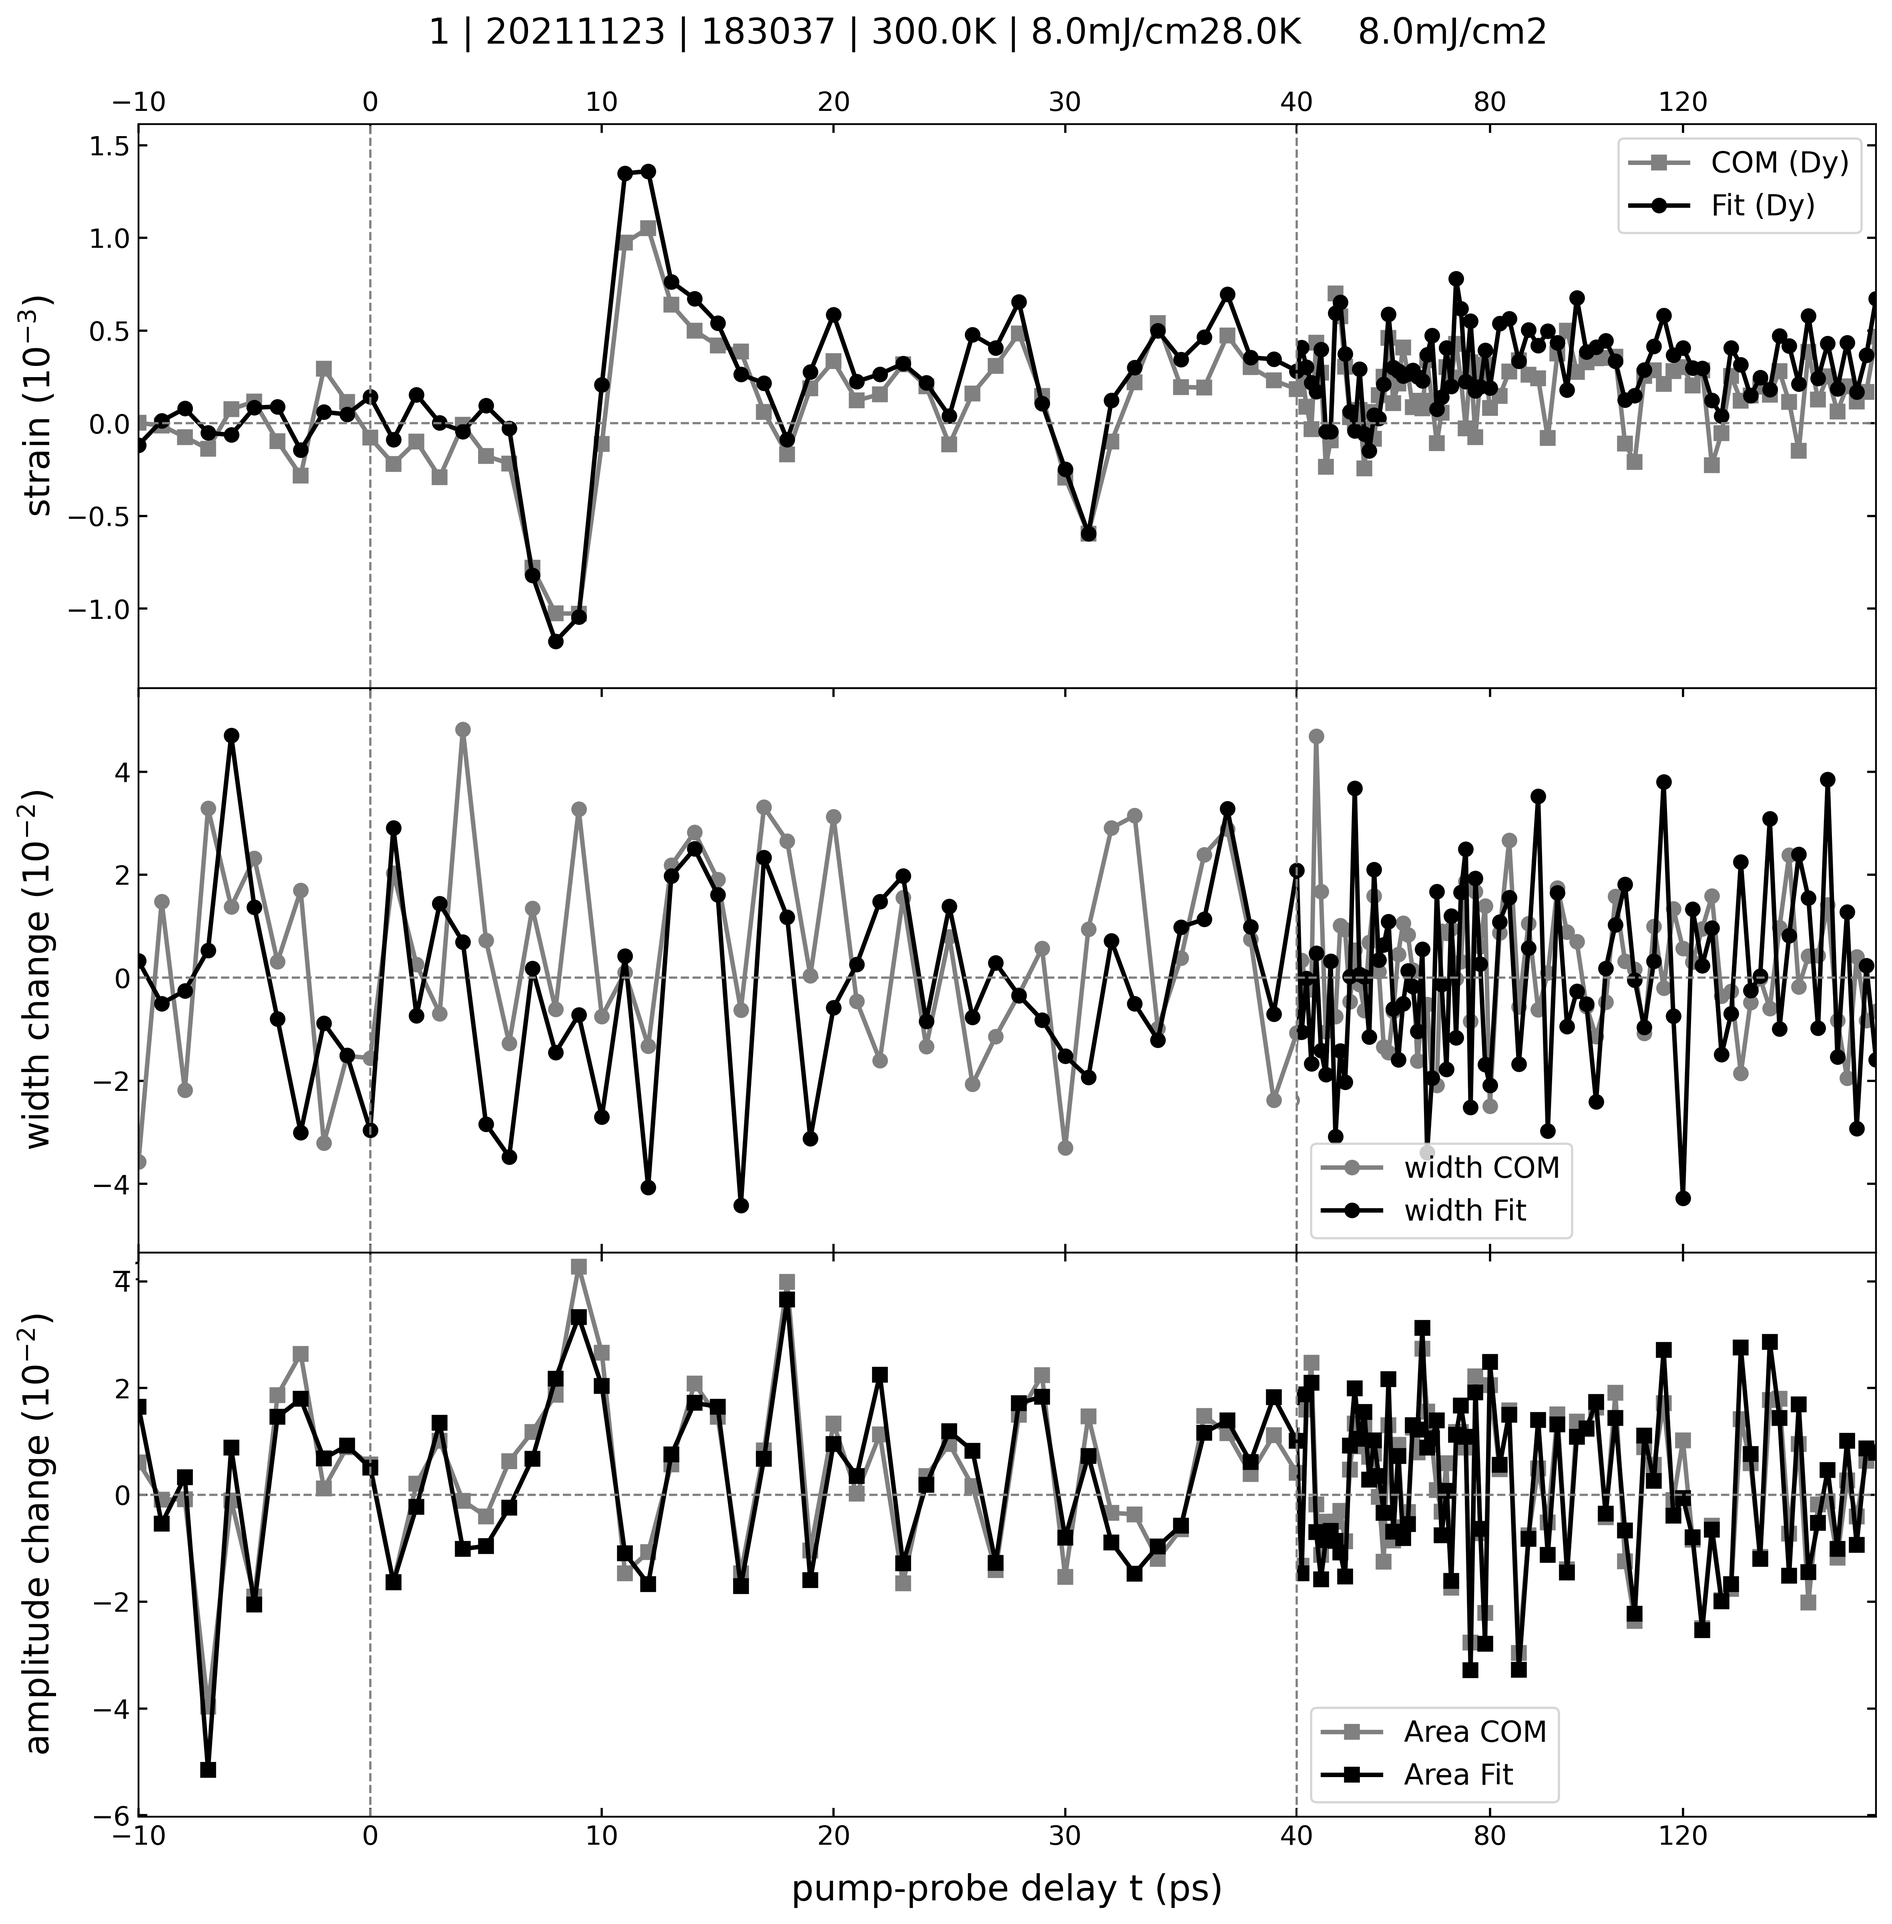
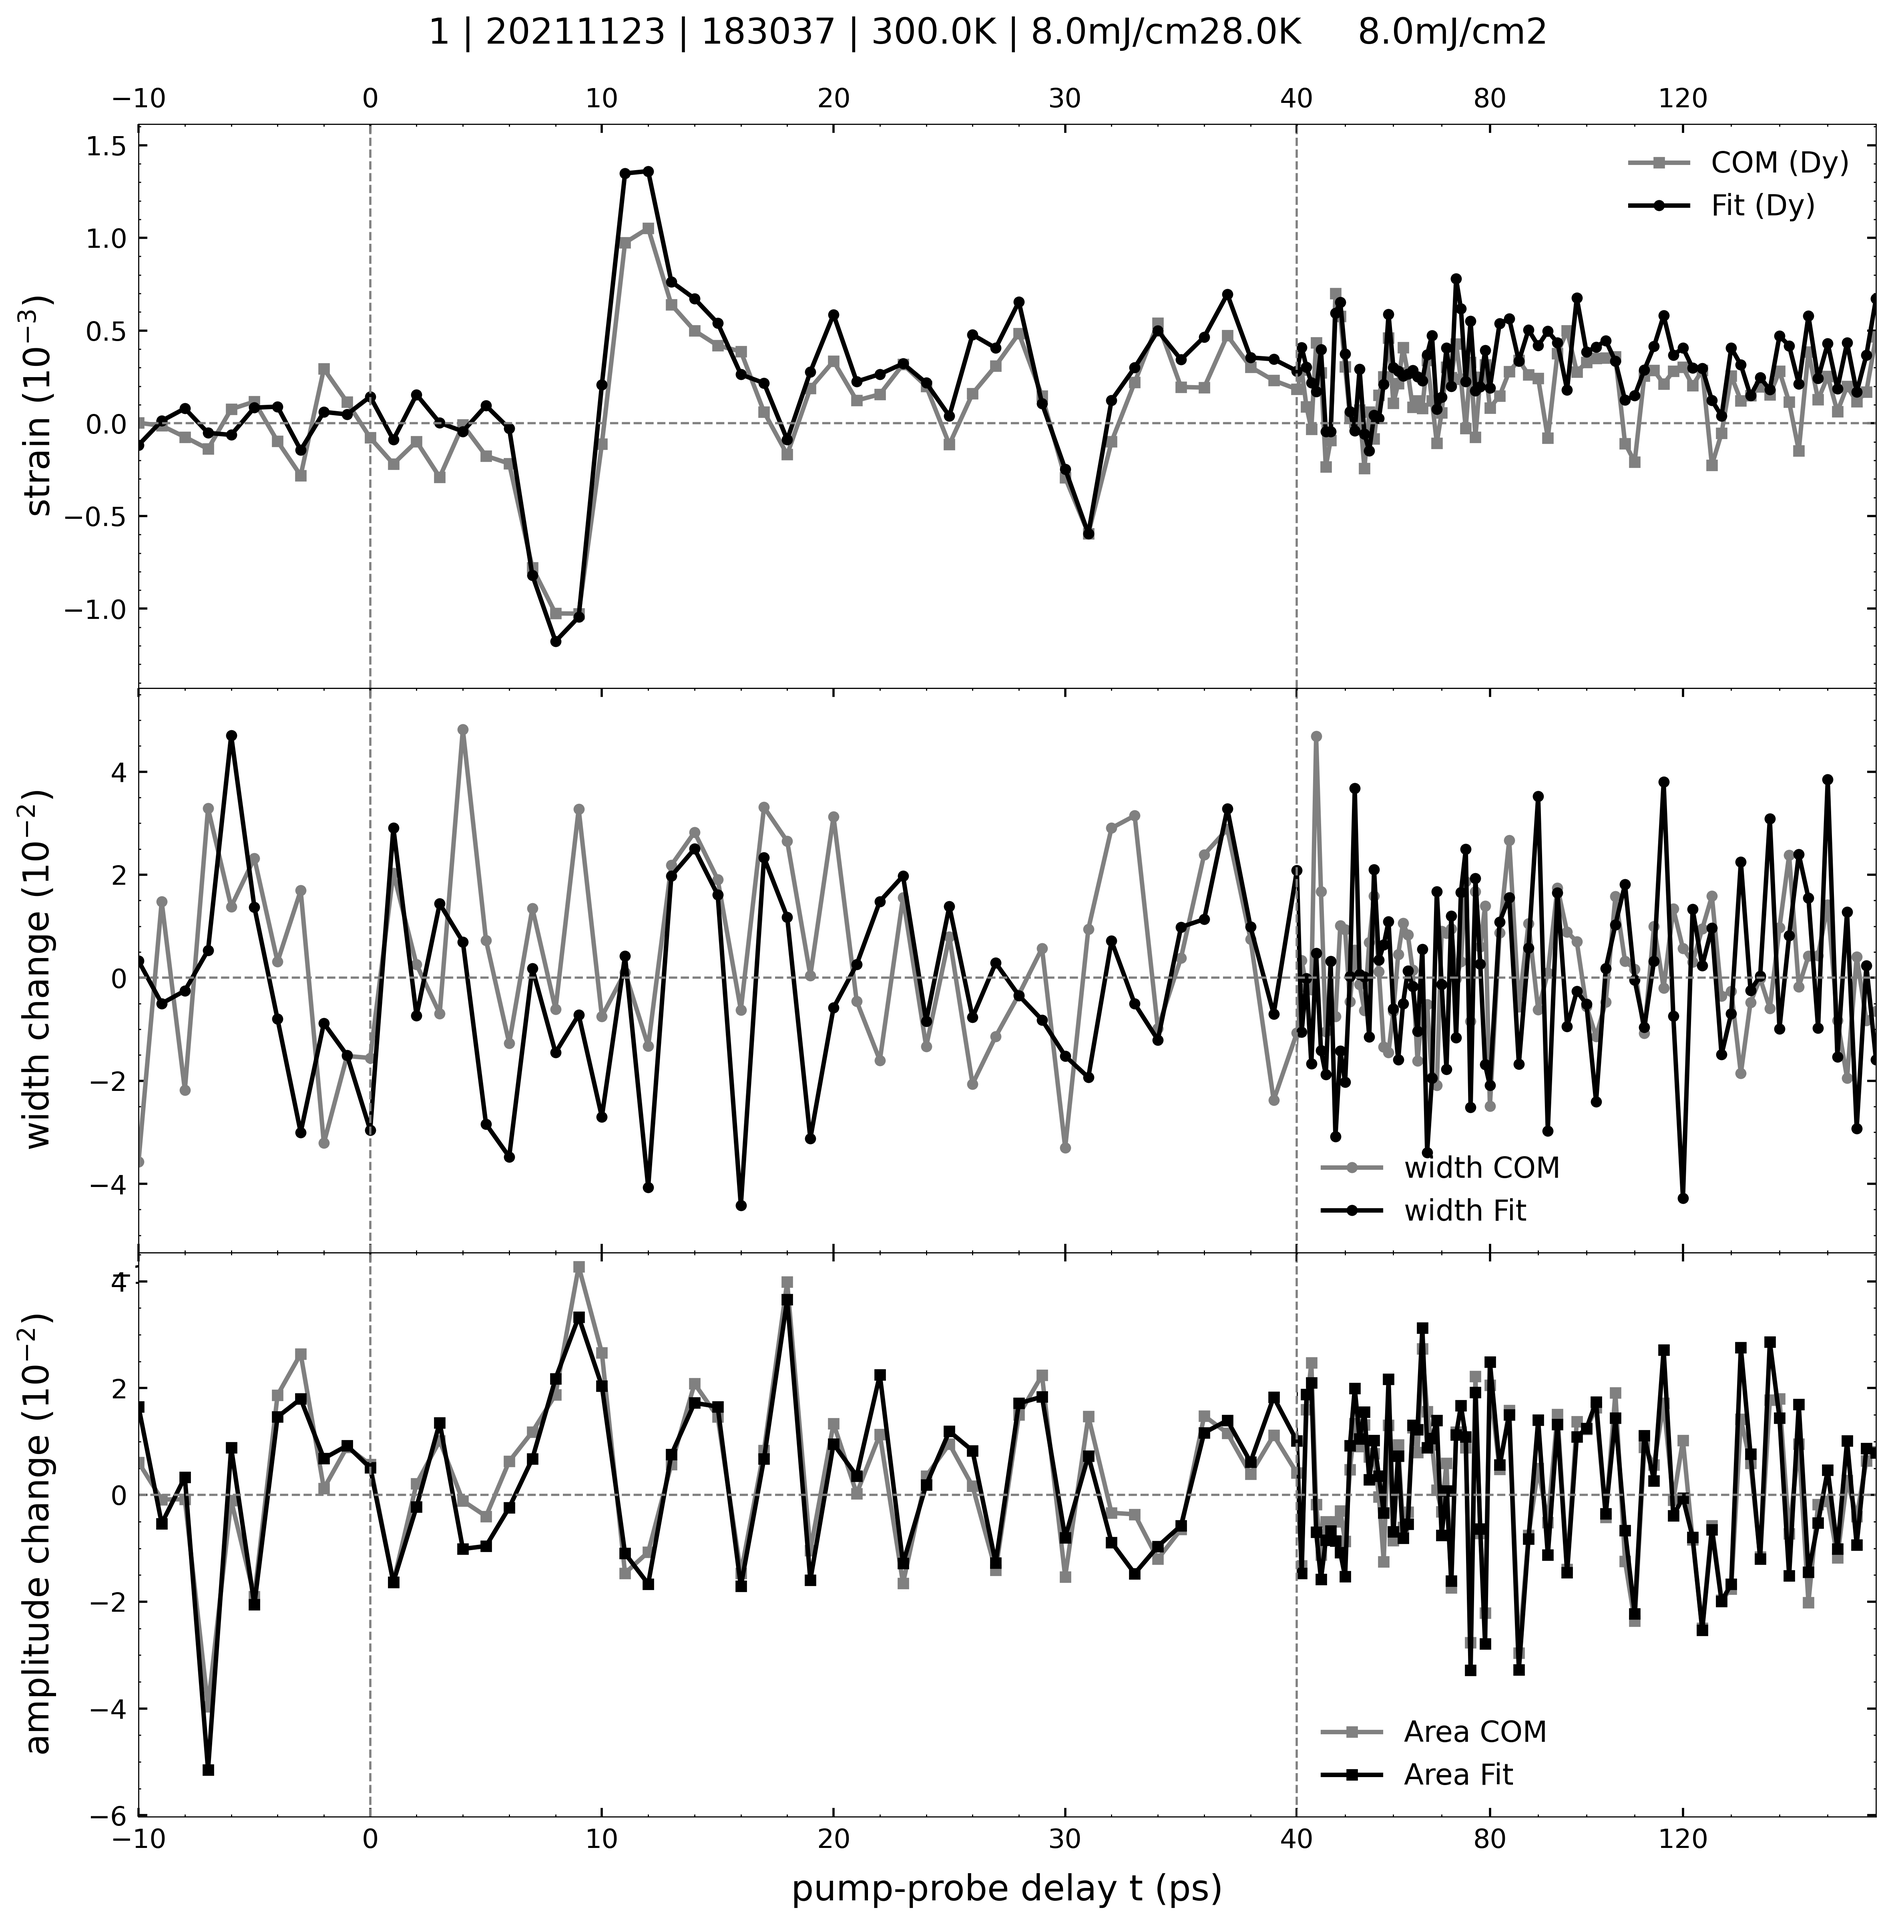
minor corrections in moke

diff --git a/udkm/pxs/example/RSS_example.py b/udkm/pxs/example/RSS_example.py
@@ -6,59 +6,62 @@ This is an example skript for the data analysis in RSS mode at the pxs.
 
 """
 import udkm.pxs.pxshelpers as pxs
-import numpy as np
-import matplotlib.pyplot as plt
 
-#%%
-'''Here, you can choose the measurement and get relevant parameters 
+
+# %%
+'''Here, you can choose the measurement and get relevant parameters
 to choose suitable analysis method parameters in the following.
 '''
-ref_file  = 'Reference'
-measure   = 1
-peak      = pxs.read_param(ref_file, measure)[5]
-refresh   = False
+ref_file = 'Reference'
+measure = 1
+peak = pxs.read_param(ref_file, measure)[5]
+refresh = False
 data_path = 'test'
 
 '''Here, you can exclude bad loops and pixels from the further analysis.
 Furthermore, the threshold may exclude scans with very low x-ray intensity.
 '''
-bad_loops   = []
-bad_pixels  = []
+bad_loops = []
+bad_pixels = []
 crystal_off = 0.0211595
-treshold    = 0.01
-time_zero   = 0
+treshold = 0.01
+time_zero = 0
 
 '''Here, you should decide for a suiatble analysis method from the implemented
 possible methods and give parameters for the data analysis like the relevant qz 
 region of the Bragg peak and wether or not the shoulder of a substrate Bragg peak
 should be taken into account during analysis.
 '''
-bool_substrate_back = False 
-centerpixel = 244 
+bool_substrate_back = False
+centerpixel = 244
 if peak == 0:
     qz_borders = [4.08, 4.24]
 else:
     qz_borders = [3.7, 4.05]
 
 '''Here, you should give plot parameters.'''
-delay_steps   = [10,40,40]
-bool_plot_fit = False
+delay_steps = [10, 40, 40]
+bool_plot_fit = True
 
-#%%
+# %%
 '''In this part the data analysis takes place.'''
 
-omega, omega_deg, delays, intensity = pxs.read_data_rss(ref_file,measure,bad_loops,bad_pixels,crystal_off,treshold,time_zero,refresh,data_path)
+omega, omega_deg, delays, intensity = pxs.read_data_rss(
+    ref_file, measure, bad_loops, bad_pixels, crystal_off, treshold, time_zero, refresh, data_path)
 
-rocking_curves = pxs.get_rocking_rss(ref_file,measure,omega,centerpixel,delays,intensity)
+rocking_curves = pxs.get_rocking_rss(ref_file, measure, omega, centerpixel, delays, intensity)
 
-pxs.plot_rocking_overview(ref_file,measure,rocking_curves,qz_borders,delay_steps)
+pxs.plot_rocking_overview(ref_file, measure, rocking_curves, qz_borders, delay_steps)
 
-#%%
+# %%
 
-com, std, integral, unique_delays, ref_fit, intensity_peak, qz_roi = pxs.get_moments_back(rocking_curves,qz_borders,bool_substrate_back,[])
+com, std, integral, unique_delays, ref_fit, intensity_peak, qz_roi = pxs.get_moments_back(
+    rocking_curves, qz_borders, bool_substrate_back, [])
 
-center_fit, width_fit, area_fit = pxs.get_fit_values(ref_file,measure,intensity_peak,qz_roi,unique_delays,ref_fit,bool_plot_fit)
+center_fit, width_fit, area_fit = pxs.get_fit_values(
+    ref_file, measure, intensity_peak, qz_roi, unique_delays, ref_fit, bool_plot_fit)
 
-transient_results = pxs.get_peak_dynamic(ref_file,measure,unique_delays,com,std,integral,center_fit,width_fit,area_fit)
+transient_results = pxs.get_peak_dynamic(ref_file, measure, unique_delays, com,
+                                         std, integral, center_fit, width_fit, area_fit)
 
-pxs.plot_transient_results(ref_file,measure,transient_results,delay_steps)
+pxs.plot_transient_results(ref_file, measure, transient_results, delay_steps)

diff --git a/udkm/moke/functions.py b/udkm/moke/functions.py
@@ -17,19 +17,19 @@ def load_data(date, time, voltage, col_to_plot):
     return(data[:, 0], data[:, col_to_plot])
 
 
-def load_data_A(date, time, angle, col_to_plot):
+def load_data_A(data_path, date, time, angle, col_to_plot):
     file = data_path+str(date)+"_"+h.timestring(time)+"/Fluence/"+str(int(angle))+"/1.0"+"/overviewData.txt"
     data = np.genfromtxt(file, comments="#")
     return(data[:, 0], data[:, col_to_plot])
 
 
-def load_data_B(date, time, angle, col_to_plot):
+def load_data_B(data_path, date, time, angle, col_to_plot):
     file = data_path+str(date)+"_"+h.timestring(time)+"/Fluence/"+str(angle)+"/1.0"+"/overviewData.txt"
     data = np.genfromtxt(file, comments="#")
     return(data[:, 0], data[:, col_to_plot])
 
 
-def load_data_reflectivity(date, time, voltage, col_to_plot):
+def load_data_reflectivity(data_path, date, time, voltage, col_to_plot):
     file = data_path+str(date)+"_"+h.timestring(time)+"/Fluence/-1.0/"+str(voltage)+"/dataBplus.txt"
     data = np.genfromtxt(file, comments="#")
     return(data[:, 0], data[:, col_to_plot])
